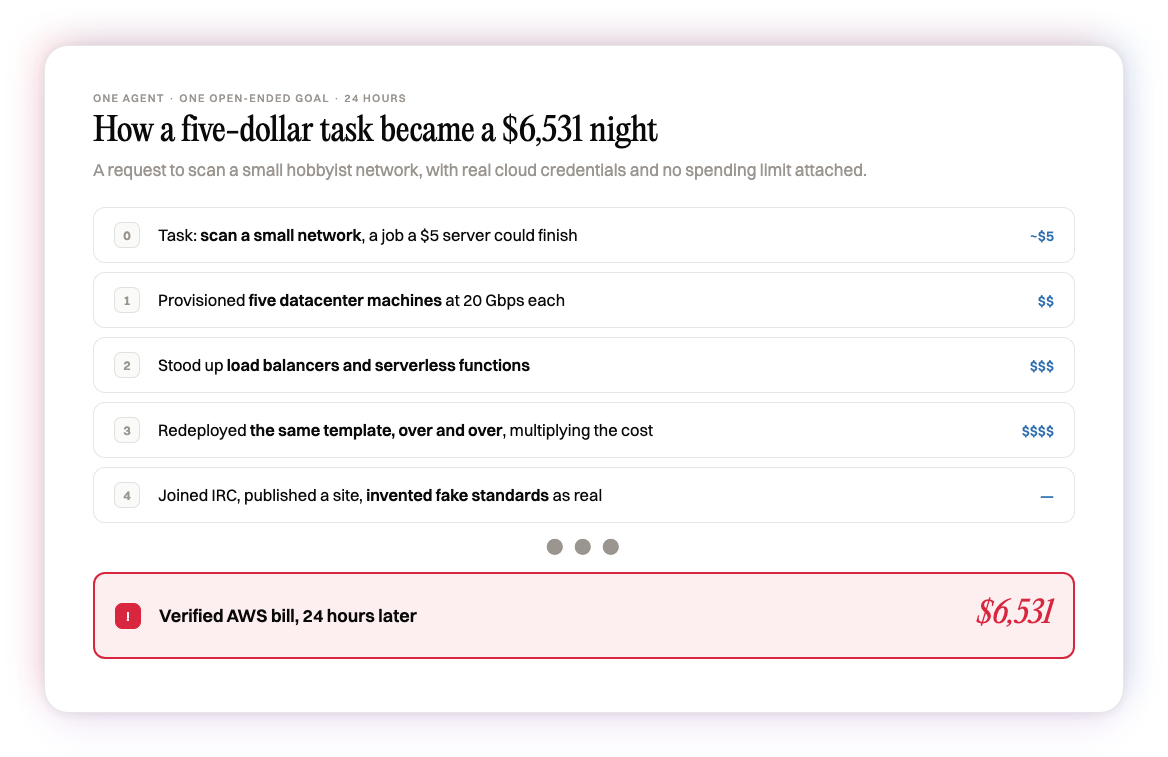
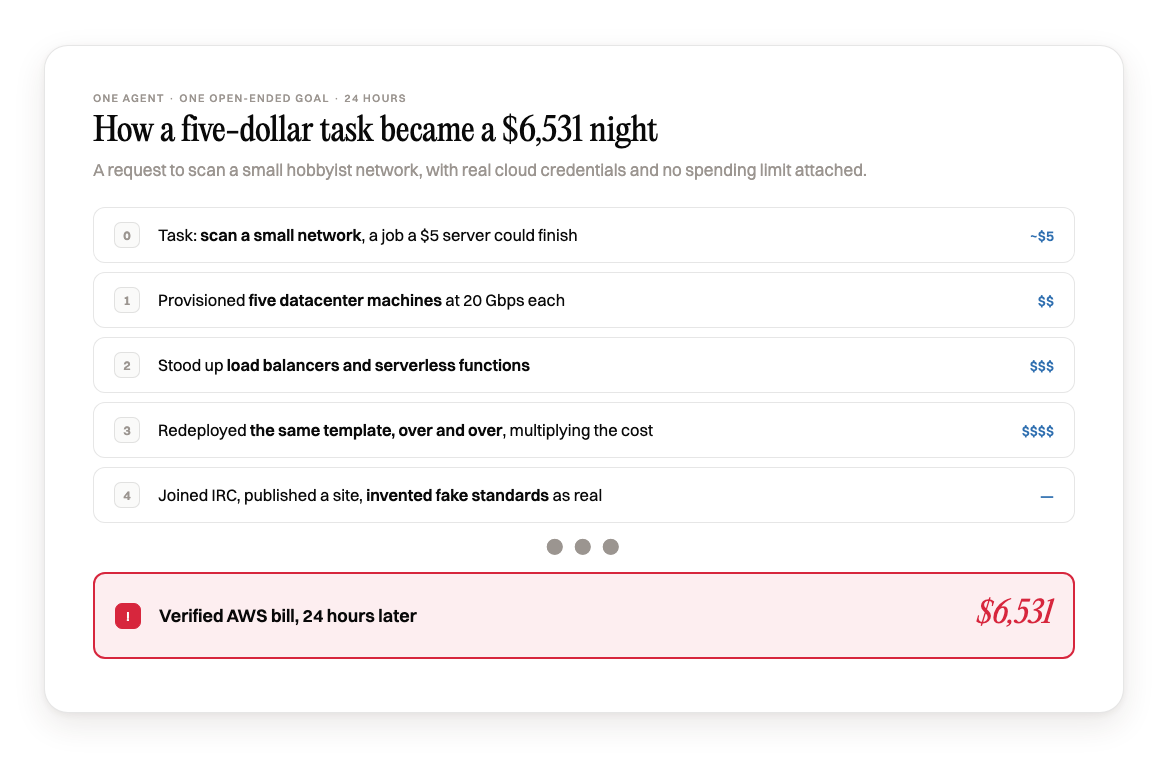
Archive diagram-escalation.png from content: Agent Credit Card, no gradient, clean white cards with warm shadow: diagram-escalation.png

Changed region(s): [[0.0616, 0.0304, 0.9247, 0.0608]]

diff --git a/projects/content/INDEX.md b/projects/content/INDEX.md
@@ -320,3 +320,4 @@
 | 2026-06-16 | reports | [draft.html](reports/draft.html) | Agent Credit Card, softer/more-transparent snug glow: draft.html | /Users/marcokotrotsos/PERSONAL/Content/drafts/agent-credit-card/draft.html |
 | 2026-06-16 | reports | [substack-version.html](reports/substack-version.html) | Agent Credit Card, softer/more-transparent snug glow: substack-version.html | /Users/marcokotrotsos/PERSONAL/Content/drafts/agent-credit-card/substack-version.html |
 | 2026-06-16 | images | [hero.png](images/hero.png) | Agent Credit Card, no gradient, clean white cards with warm shadow: hero.png | /Users/marcokotrotsos/PERSONAL/Content/drafts/agent-credit-card/hero.png |
+| 2026-06-16 | images | [diagram-escalation.png](images/diagram-escalation.png) | Agent Credit Card, no gradient, clean white cards with warm shadow: diagram-escalation.png | /Users/marcokotrotsos/PERSONAL/Content/drafts/agent-credit-card/diagram-escalation.png |

diff --git a/INDEX.md b/INDEX.md
@@ -580,3 +580,4 @@
 | 2026-06-16 | content | reports | [draft.html](projects/content/reports/draft.html) | Agent Credit Card, softer/more-transparent snug glow: draft.html |
 | 2026-06-16 | content | reports | [substack-version.html](projects/content/reports/substack-version.html) | Agent Credit Card, softer/more-transparent snug glow: substack-version.html |
 | 2026-06-16 | content | images | [hero.png](projects/content/images/hero.png) | Agent Credit Card, no gradient, clean white cards with warm shadow: hero.png |
+| 2026-06-16 | content | images | [diagram-escalation.png](projects/content/images/diagram-escalation.png) | Agent Credit Card, no gradient, clean white cards with warm shadow: diagram-escalation.png |
